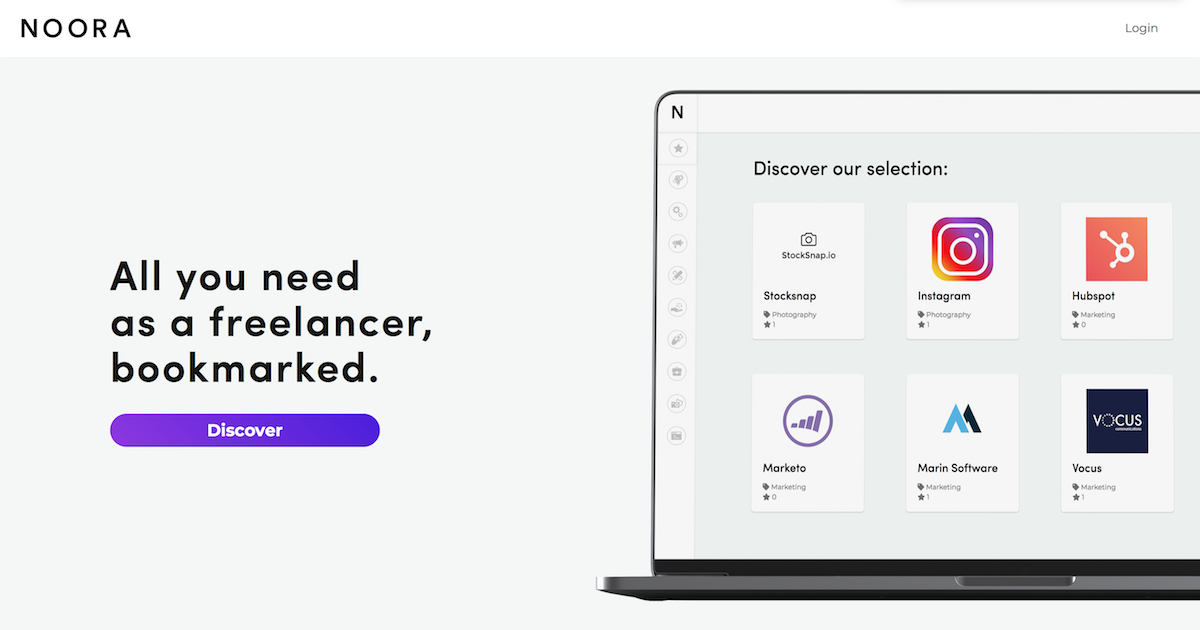
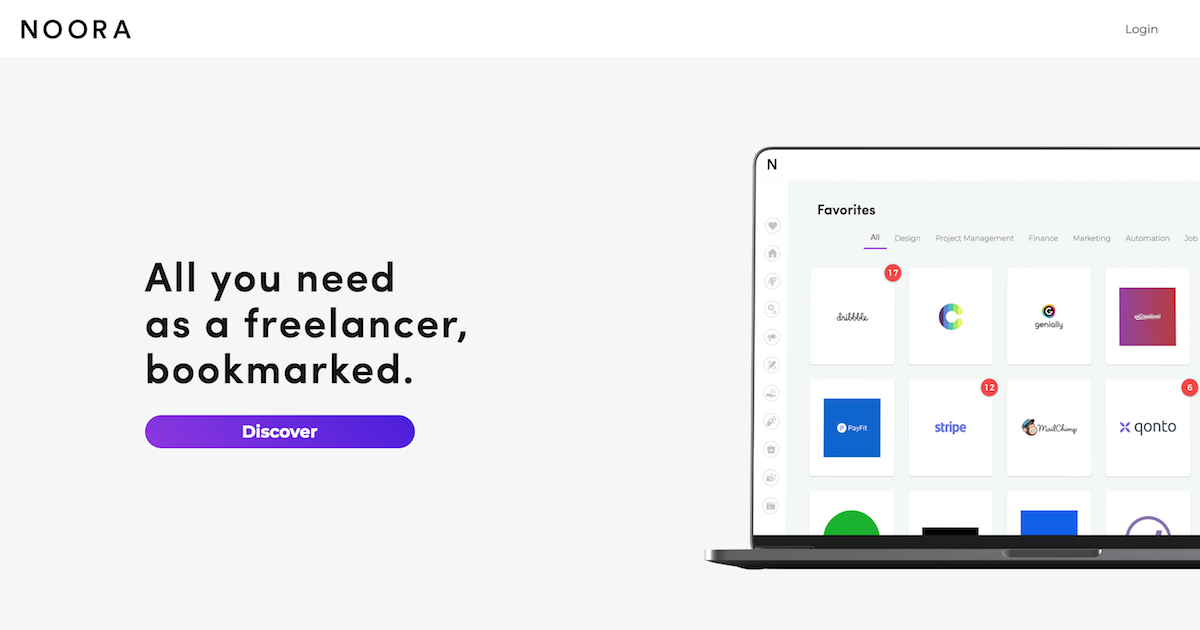
Change cover mockup

diff --git a/app/assets/stylesheets/pages/_home.scss b/app/assets/stylesheets/pages/_home.scss
@@ -39,7 +39,7 @@
 #mock {
   height: 650px;
   position: relative;
-  left: 135px;
+  left: 174px;
   top: 20px;
 }
 
